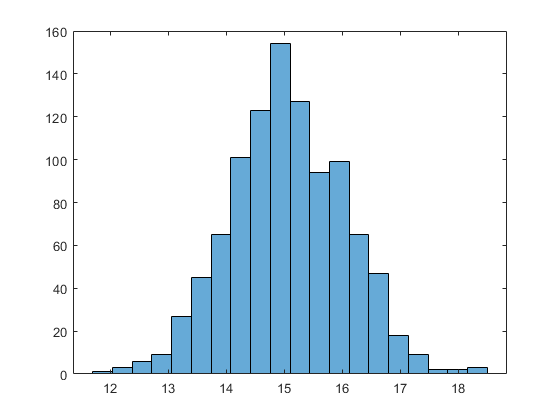
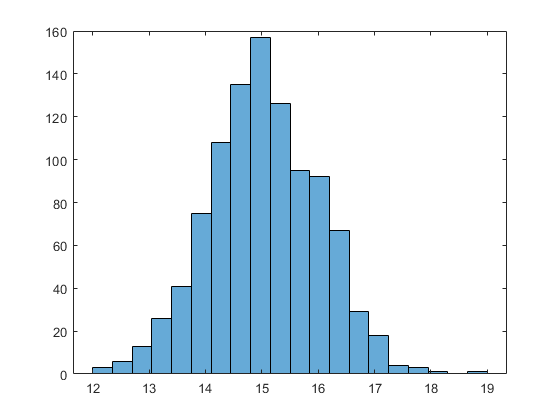
fixed 1, finished 6

diff --git a/CS1675 Machine Learning/Homework/2/hw2.TEX b/CS1675 Machine Learning/Homework/2/hw2.TEX
@@ -22,30 +22,50 @@
 \maketitle
 
 \section{Problem 1}
+Part 1
+
 \begin{itemize}
-    \item Part 1: 
-    \begin{itemize}
-        \item mean = 15.0415
-        \item standard deviation = 5.0279
-    \end{itemize}
+    \item mean = 15.0415
+    \item standard deviation = 5.0279
 \end{itemize}
+The calculated mean and standard deviations are each a few hundredths off of the true values. This is likely because matlab is rounding our input values to a certain number of decimal places.
+
+\medskip
+\noindent
+Part 4
+
 
 \begin{center}
     \includegraphics[scale=1]{meansHistogram25.png}
     \caption{Subsample size = 25}
 \end{center}
+The means have a roughly normal distribution around the true mean of 15.
+
+\noindent
+The mean of all subsample means was calculated to be 15.0587.
+
   
+\bigskip
+\noindent
+Part 5
 
 \begin{center}
     \includegraphics[scale=1]{meansHistogram40.png}
     \caption{Subsample size = 40}
 \end{center}
 
-
-
+\noindent 
+The means for a subsample size of 40 have a marginally tighter grouping than the 25-size subsample means around the true mean of 15. It's possible I was unlucky with my samples, but a subsample size of 40 does not appear to be much more accurate than a subsample size of 25.
 
 \noindent
-The first 25 elements have a mean = 14.5625
+The mean of all subsample means was calculated to be 15.0371.
+
+\bigskip
+\noindent
+Part 6
+
+\noindent
+The first 25 elements have a mean of 14.5625.
 
 \smallskip
 \noindent
@@ -113,4 +133,30 @@ c. The outcome of 4 has a 1/12 chance. Therefore, the probability of NOT 4 is $1
 \noindent
 The probability of an odd outcome is equal to p(3) + p(5) + p(7) + p(9) + p(11) = $1/18+1/9+1/6+1/9+1/18=0.5$. The chance of an odd outcome all 5 trials is $0.5^5=0.03125$ (or 1/32).
 
+\section{Problem 4}
+
+\section{Problem 5}
+a. 
+
+\medskip
+\noindent
+b.
+
+\section{Problem 6}
+Applying Bayes' theorem:
+
+\[P(infected|positive) = \frac{P(positive| infected)P(infected)}{P(positive)}\]
+
+\[P(infected|positive) = \frac{P(positive| infected)P(infected)}{P(false positive) + P(true positive)}\]
+
+\[P(infected|positive) = \frac{0.99*0.0001}{0.9999*0.01 + 0.0001*0.99}\]
+
+\[P(infected|positive) = \frac{0.99*0.0001}{0.9999*0.01 + 0.0001*0.99}\]
+
+\[P(infected|positive) \approx 0.0098\]
+
+\noindent
+Since the probability that a person that tested positive is actually infected is only about 1\%, I cannot recommend this test be widely adopted.
+
 \end{document}
+
